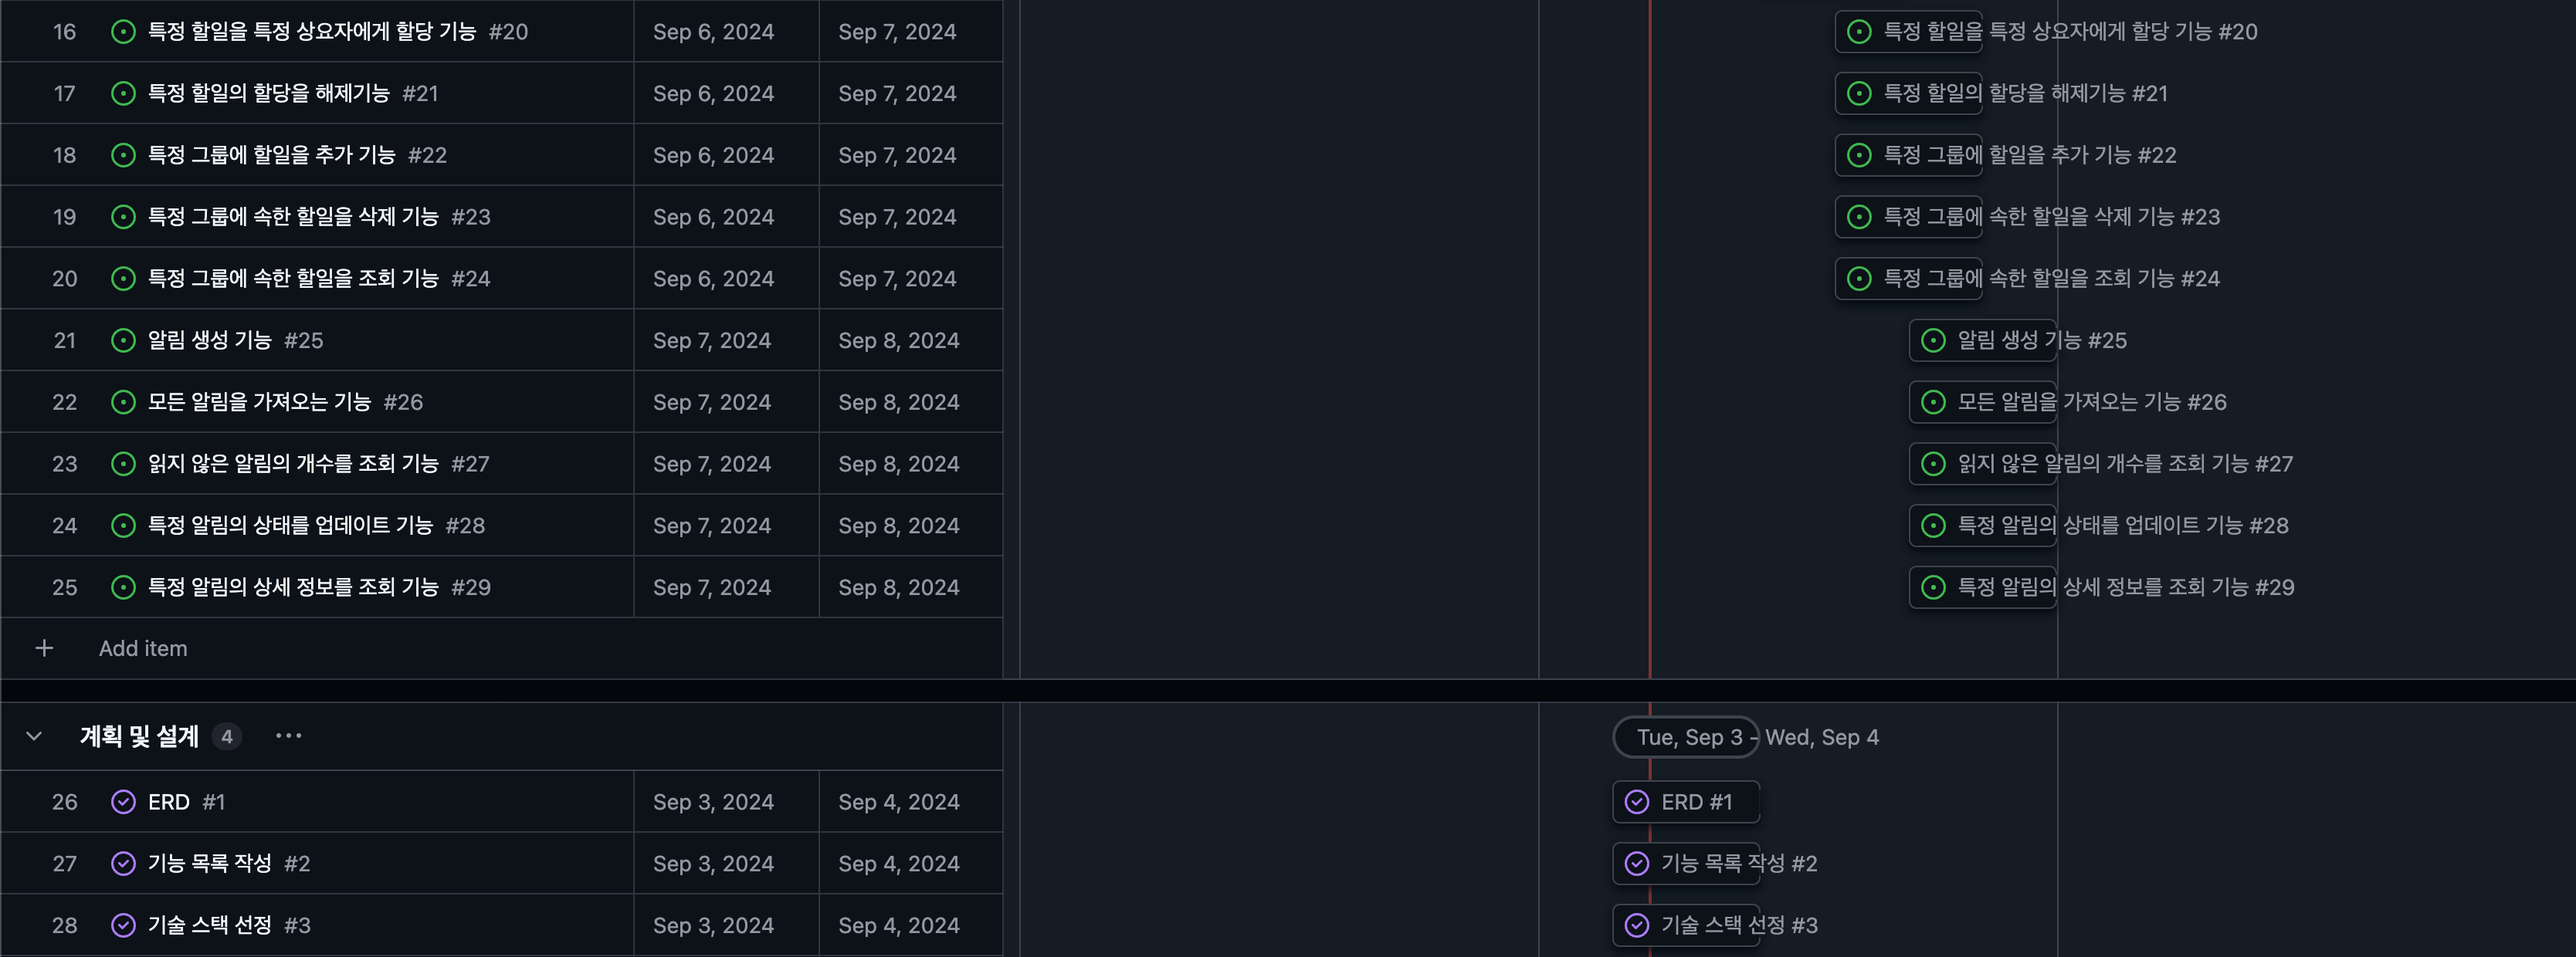
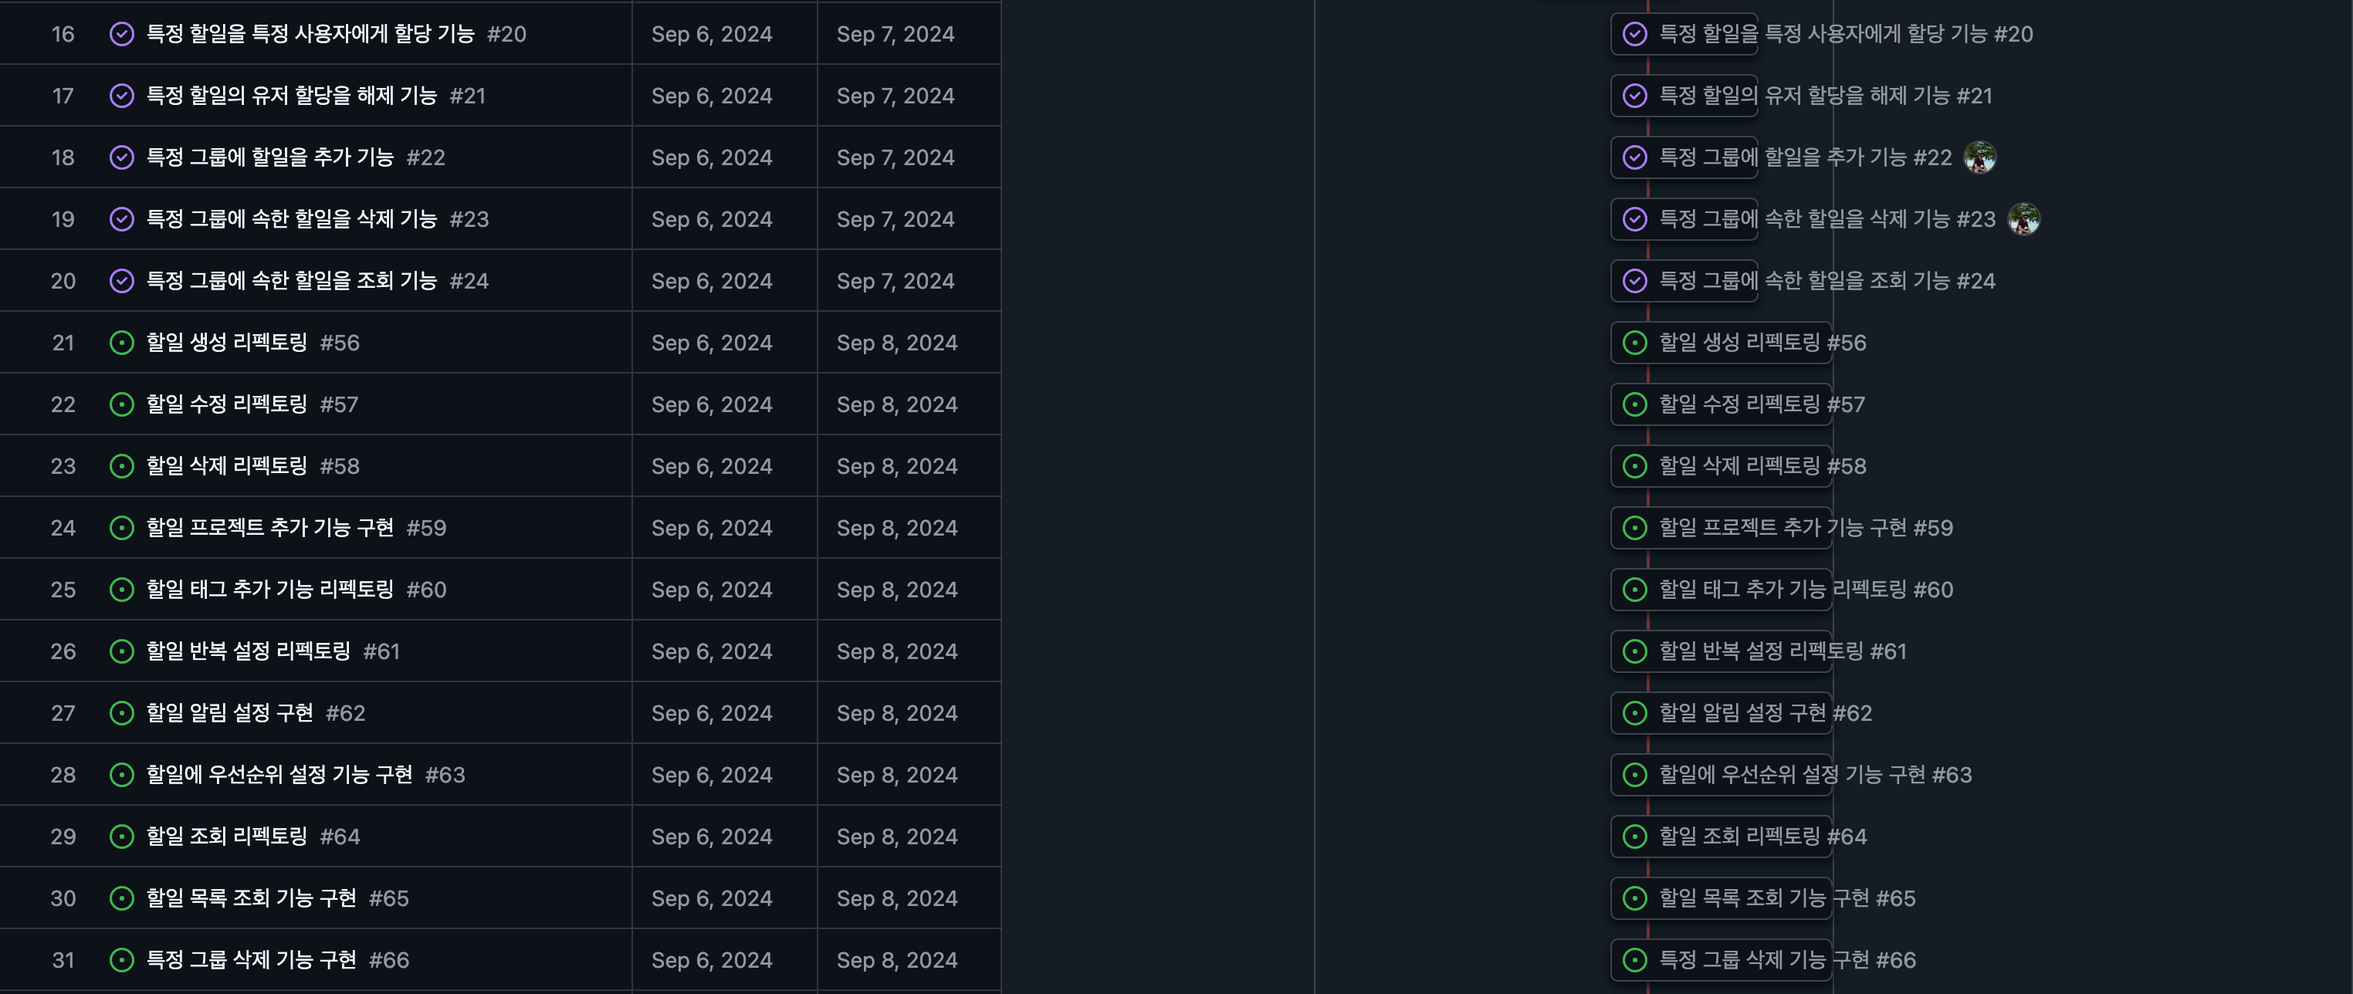
docs: 중간 적검

diff --git a/README.md b/README.md
@@ -4,29 +4,71 @@
 
 ### 유저
 
-- 유저 생성: 새로운 사용자를 등록합니다.
-- 유저 로그인: 로그인 시 AccessToken 및 RefreshToken을 발급받습니다.
-- 유저가 할당된 할일 조회: 유저에게 할당된 할일을 조회합니다.
-- 유저가 생성한 할일 조회: 유저가 생성한 할일을 조회합니다.
+- [x]  **유저 생성**: 새로운 사용자를 등록할 수 있습니다.
+- [x]  **유저 로그인**: 로그인 시 AccessToken 및 RefreshToken을 발급받을 수 있습니다.
 
-### 할일
+---
 
-- 할일 생성: 새로운 할일을 생성합니다.
-- 할일 수정: 기존 할일의 정보를 수정합니다.
-- 할일 삭제: 특정 할일을 삭제합니다.
-- 할일 조회: 특정 할일의 상세 정보를 조회합니다.
-- 할일 목록 조회:
-    - 모든 할일 목록을 조회합니다.
-    - 검색 및 필터링 한 할일을 조회합니다.
-- 할일 상태 변경: 할일의 상태를 업데이트합니다. (예: 미완료, 진행 중, 완료)
-- 할일 분류 및 그룹화: 할일을 태그나 프로젝트 별로 분류하고 그룹화합니다.
+### 할일 (개인)
 
-### 알림
+- [ ]  **할일 생성**: 새로운 할일을 생성할 수 있습니다.
+- [ ]  **할일 수정**: 기존 할일의 정보를 수정할 수 있습니다.
+- [ ]  **할일 삭제**: 특정 할일을 삭제할 수 있습니다.
+- [ ]  **할일 조회**: 특정 할일의 상세 정보를 조회할 수 있습니다.
+- [ ]  **할일 목록 조회**:
+    - [ ]  **태그 별**: 태그를 기준으로 할일 목록을 조회할 수 있습니다.
+    - [ ]  **프로젝트 별**: 프로젝트를 기준으로 할일 목록을 조회할 수 있습니다.
+    - [ ]  **전체**: 모든 할일 목록을 조회할 수 있습니다.
+- [ ]  **할일 상태 변경**: 할일의 상태를 업데이트할 수 있습니다. (예: 미완료, 진행 중, 완료)
+- [ ]  **태그 추가**: 할일에 태그를 추가할 수 있습니다.
+- [ ]  **태그 삭제**: 할일에서 태그를 삭제할 수 있습니다.
+- [ ]  **프로젝트 업데이트**: 할일에 프로젝트를 업데이트할 수 있습니다.
+- [ ]  **할일 알림 설정**: 할일 기한 전 알림을 설정할 수 있습니다.
+- [ ]  **할일 반복 설정**: 주기적으로 반복되는 할일을 설정할 수 있습니다.
 
-- 할일 기한 전 알림 설정: 할일 기한이 다가오면 알림을 설정합니다.
-- 할일 상태 변경 시 알림: 할일의 완료 또는 상태 변경 시 알림을 보냅니다.
-- 할당된 알림: 할일이 할당된 경우 해당 할일에 대해 알림을 설정합니다.
-- 반복 할일 설정: 반복적으로 발생하는 할일에 대해 정기적인 알림을 설정합니다.
+---
+
+### 그룹
+
+- [x]  **새로운 그룹 생성**: 새로운 그룹을 생성할 수 있습니다.
+- [x]  **기존 그룹 정보 수정**: 기존 그룹의 정보를 수정할 수 있습니다.
+- [ ]  **특정 그룹 삭제**: 특정 그룹을 삭제할 수 있습니다.
+- [ ]  **특정 그룹 상세 정보 조회**: 특정 그룹의 상세 정보를 조회할 수 있습니다.
+- [ ]  **특정 그룹에 포함된 유저 조회**: 특정 그룹에 포함된 유저를 가져올 수 있습니다.
+- [ ]  **특정 그룹에 유저 추가**: 특정 그룹에 유저를 추가할 수 있습니다.
+- [ ]  **특정 그룹에서 유저 삭제**: 특정 그룹에서 유저를 삭제할 수 있습니다.
+- [ ]  **특정 그룹에 할일 추가**: 특정 그룹에 할일을 추가할 수 있습니다.
+- [ ]  **특정 그룹에서 할일 삭제**: 특정 그룹에서 할일을 삭제할 수 있습니다.
+    - [ ]  **삭제 알림**: 할당된 유저에게 삭제 알림을 보낼 수 있습니다.
+- [ ]  **특정 그룹의 할일 수정**: 특정 그룹의 할일을 수정할 수 있습니다.
+    - [ ]  **수정 알림**: 할당된 유저에게 수정 사항을 알림으로 보낼 수 있습니다.
+- [ ]  **특정 그룹의 할일 상태 변경**: 특정 그룹의 할일 상태를 변경할 수 있습니다.
+    - [ ]  **상태 변경 알림**: 할당된 유저에게 상태 변경 알림을 보낼 수 있습니다.
+- [ ]  **특정 그룹의 할일 상세 정보 조회**: 특정 그룹의 할일 상세 정보를 조회할 수 있습니다.
+- [ ]  **특정 그룹 할일에 태그 추가**: 할일에 태그를 추가할 수 있습니다.
+- [ ]  **특정 그룹 할일에서 태그 삭제**: 할일에서 태그를 삭제할 수 있습니다.
+- [ ]  **특정 그룹 할일에 프로젝트 업데이트**: 할일의 프로젝트를 업데이트할 수 있습니다.
+- [ ]  **특정 그룹 할일 목록 조회**:
+    - [ ]  **태그 별**: 태그를 기준으로 할일 목록을 조회할 수 있습니다.
+    - [ ]  **프로젝트 별**: 프로젝트를 기준으로 할일 목록을 조회할 수 있습니다.
+    - [ ]  **전체**: 모든 할일 목록을 조회할 수 있습니다.
+- [ ]  **특정 그룹 할일에 마감 기한 설정**: 마감 기한을 설정할 수 있습니다.
+    - [ ]  **마감 기한 알림**: 마감 기한이 가까워지면 할당된 유저에게 알림을 보낼 수 있습니다.
+    - [ ]  **마감 기한 변경 알림**: 마감 기한이 변경되면 할당된 유저에게 알림을 보낼 수 있습니다.
+- [ ]  **특정 그룹 할일에 우선순위 설정**: 할일의 우선순위를 설정할 수 있습니다.
+    - [ ]  **우선순위 설정 알림**: 할당된 유저에게 우선순위 알림을 보낼 수 있습니다.
+- [ ]  **그룹 할일 진행률 추적**: 할일의 진행 상태를 비율로 추적할 수 있습니다.
+- [ ]  **특정 그룹 할일을 유저에게 할당**: 특정 그룹의 할일을 유저에게 할당할 수 있습니다.
+    - [ ]  **할당 알림**: 할일이 할당된 유저에게 알림을 보낼 수 있습니다.
+- [ ]  **특정 그룹 할일에서 유저 할당 해제**: 특정 그룹의 할일에서 유저 할당을 해제할 수 있습니다.
+    - [ ]  **할당 해제 알림**: 할당이 해제된 유저에게 알림을 보낼 수 있습니다.
+
+---
+
+### 유저의 그룹 정보
+
+- [ ]  **유저가 속한 모든 그룹 정보 조회**: 유저가 속한 모든 그룹 정보를 가져올 수 있습니다.
+    - [ ]  **그룹에 포함된 할일도 함께 조회**: 그룹에 포함된 할일도 함께 가져올 수 있습니다.
 
 ## 기술 스택
 
@@ -83,57 +125,78 @@
 
 ### 유저 API
 
-| Endpoint                     | HTTP Method | 설명                                  |
-|------------------------------|-------------|-------------------------------------|
-| `/users`                     | POST        | 새로운 사용자를 등록합니다.                     |
-| `/users/login`               | POST        | AccessToken 및 RefreshToken을 발급받습니다. |
-| `/users/{id}/assigend-todos` | GET         | 유저에게 할당된 할일을 조회합니다.                 |
-| `/users/{id}/todos`          | GET         | 유저가 생성한 할일을 조회합니다.                  |
+| Endpoint       | HTTP Method | 설명                                  | 상태 |
+|----------------|-------------|:------------------------------------|----|
+| `/users`       | POST        | 새로운 사용자를 등록합니다.                     | ✅  |
+| `/users/login` | POST        | AccessToken 및 RefreshToken을 발급받습니다. | ✅  |
 
-### 할일 API
+### 할일 API (개인인증 필요)
 
-| Endpoint                 | HTTP Method | 설명                      |
-|--------------------------|-------------|-------------------------|
-| `/todos`                 | POST        | 새로운 할일을 생성합니다.          |
-| `/todos/{id}`            | PUT         | 기존 할일의 정보를 수정합니다.       |
-| `/todos/{id}`            | DELETE	     | 	특정 할일을 삭제합니다.          |
-| `/todos/{id}`            | GET         | 특정 할일의 상세 정보를 조회합니다.    |
-| `/todos/{id}/status`     | PUT         | 특정 할일의 상태를 업데이트합니다.     |
-| `/todos/{id}/tags`       | PUT         | 특정 할일의 태그를 업데이트합니다.     |
-| `/todos/{id}/recurrence` | POST        | 특정 할일에 대해 반복 설정을 추가합니다. |
-| `/todos/{id}/recurrence` | PUT         | 특정 할일의 반복 설정을 수정합니다.    |
-| `/todos/{id}/recurrence` | DELETE      | 특정 할일의 반복 설정을 삭제합니다.    |
-| `/todos/{id}/recurrence` | GET         | 특정 할일의 반복 설정을 조회합니다.    |
-| 	`/todos/{id}/assign`    | POST        | 특정 할일을 특정 사용자에게 할당합니다.  |
-| `/todos/{id}/assign`     | DELETE      | 특정 할일의 할당을 해제합니다.       |
+| Endpoint                     | HTTP Method | 설명                      | 상태 |
+|------------------------------|-------------|-------------------------|----|
+| `/todos`                     | POST        | 새로운 할일을 생성합니다.          |    |
+| `/todos/{id}`                | PUT         | 기존 할일의 정보를 수정합니다.       |    |
+| `/todos/{id}`                | DELETE      | 특정 할일을 삭제합니다.           |    |
+| `/todos/{id}`                | GET         | 특정 할일의 상세 정보를 조회합니다.    |    |
+| `/todos`                     | GET         | 전체 할일 목록을 조회합니다.        |    |
+| `/todos?tag={tagName}`       | GET         | 태그 별로 할일 목록을 조회합니다.     |    |
+| `/todos?project={projectId}` | GET         | 프로젝트 별로 할일 목록을 조회합니다.   |    |
+| `/todos/{id}/status`         | PUT         | 특정 할일의 상태를 업데이트합니다.     |    |
+| `/todos/{id}/tags`           | POST        | 특정 할일에 태그를 추가합니다.       |    |
+| `/todos/{id}/tags`           | DELETE      | 특정 할일에 태그를 삭제합니다.       |    |
+| `/todos/{id}/projects`       | PUT         | 특정 할일에 프로젝트 업데이트 합니다.   |    |
+| `/todos/{id}/recurrence`     | POST        | 특정 할일에 대해 반복 설정을 추가합니다. |    |
+| `/todos/{id}/recurrence`     | PUT         | 특정 할일의 반복 설정을 수정합니다.    |    |
+| `/todos/{id}/recurrence`     | DELETE      | 특정 할일의 반복 설정을 삭제합니다.    |    |
+| `/todos/{id}/recurrence`     | GET         | 특정 할일의 반복 설정을 조회합니다.    |    |
+| `/todos/{id}/assign`         | POST        | 특정 할일을 특정 사용자에게 할당합니다.  |    |
+| `/todos/{id}/assign`         | DELETE      | 특정 할일의 할당을 해제합니다.       |    |
+| `/todos/{id}/notifications`  | POST        | 특정 할일의 기한 전 알림을 설정합니다.  |    |
+| `/todos/{id}/notifications`  | PUT         | 특정 할일의 알림을 수정합니다.       |    |
+| `/todos/{id}/notifications`  | DELETE      | 특정 할일의 알림을 삭제합니다.       |    |
+| `/todos/{id}/notifications`  | GET         | 특정 할일의 알림을 조회합니다.       |    |
 
-### 그룹 API
+### 그룹 API (그룹인증 필요)
 
-| Endpoint             | HTTP Method | 설명                   |
-|----------------------|-------------|----------------------|
-| `/groups`            | POST        | 새로운 그룹을 생성합니다.       |
-| `/groups/{id}`       | PUT         | 기존 그룹의 정보를 수정합니다.    |
-| `/groups/{id}`       | DELETE      | 특정 그룹을 삭제합니다.        |
-| `/groups/{id}`       | GET         | 특정 그룹의 상세 정보를 조회합니다. |
-| `/groups/`           | GET         | 모든 그룹을 조회합니다.        |
-| `/groups/{id}/todos` | POST        | 특정 그룹에 할일을 추가합니다.    |
-| `/groups/{id}/todos` | DELETE      | 특정 그룹에 속한 할일을 삭제합니다. |
-| `/groups/{id}/todos` | GET         | 특정 그룹에 속한 할일을 조회합니다. |
+| Endpoint                                 | HTTP Method | 설명                               | 상태 |
+|------------------------------------------|-------------|----------------------------------|----|
+| `/groups`                                | POST        | 새로운 그룹을 생성할 수 있습니다.              |    |
+| `/groups/{id}`                           | PUT         | 기존 그룹의 정보를 수정할 수 있습니다.           |    |
+| `/groups/{id}`                           | DELETE      | 특정 그룹을 삭제할 수 있습니다.               |    |
+| `/groups/{id}`                           | GET         | 특정 그룹의 상세 정보를 조회할 수 있습니다.        |    |
+| `/groups/{id}/users`                     | GET         | 특정 그룹에 포함된 유저를 가져올 수 있습니다.       |    |
+| `/groups/{id}/users`                     | POST        | 특정 그룹에 유저를 추가할 수 있습니다.           |    |
+| `/groups/{id}/users/{userId}`            | DELETE      | 특정 그룹에서 유저를 삭제할 수 있습니다.          |    |
+| `/groups/{id}/todos`                     | POST        | 특정 그룹에 할일을 추가할 수 있습니다.           |    |
+| `/groups/{id}/todos/{todoId}`            | DELETE      | 특정 그룹에서 할일을 삭제할 수 있습니다.          |    |
+| `/groups/{id}/todos/{todoId}`            | PUT         | 특정 그룹의 할일을 수정할 수 있습니다.           |    |
+| `/groups/{id}/todos/{todoId}/status`     | PUT         | 특정 그룹의 할일 상태를 변경할 수 있습니다.        |    |
+| `/groups/{id}/todos/{todoId}`            | GET         | 특정 그룹의 할일 상세 정보를 조회할 수 있습니다.     |    |
+| `/groups/{id}/todos/{todoId}/tags`       | POST        | 특정 그룹의 할일에 태그를 추가할 수 있습니다.       |    |
+| `/groups/{id}/todos/{todoId}/tags`       | DELETE      | 특정 그룹의 할일에서 태그를 삭제할 수 있습니다.      |    |
+| `/groups/{id}/todos/{todoId}/projects`   | PUT         | 특정 그룹의 할일을 프로젝트 별로 분류할 수 있습니다.   |    |
+| `/groups/{id}/todos?tag={tagName}`       | GET         | 특정 그룹의 할일을 태그 별로 조회할 수 있습니다.     |    |
+| `/groups/{id}/todos?project={projectId}` | GET         | 특정 그룹의 할일을 프로젝트 별로 조회할 수 있습니다.   |    |
+| `/groups/{id}/todos`                     | GET         | 특정 그룹의 모든 할일 목록을 조회할 수 있습니다.     |    |
+| `/groups/{id}/todos/{todoId}/due-date`   | PUT         | 특정 그룹의 할일에 마감 기한을 설정할 수 있습니다.    |    |
+| `/groups/{id}/todos/{todoId}/priority`   | PUT         | 특정 그룹의 할일에 우선순위를 설정할 수 있습니다.     |    |
+| `/groups/{id}/todos/progress`            | GET         | 특정 그룹의 할일 진행 상태를 비율로 추적할 수 있습니다. |    |
+| `/groups/{id}/todos/{todoId}/assign`     | POST        | 특정 그룹의 할일을 유저에게 할당할 수 있습니다.      |    |
+| `/groups/{id}/todos/{todoId}/assign`     | DELETE      | 특정 그룹의 할일에서 유저 할당을 해제할 수 있습니다.   |    |
 
-### 알림 API
+### 유저의 그룹 정보 API (그룹인증 필요)
 
-| Endpoint                | HTTP Method | 설명                   |
-|-------------------------|-------------|----------------------|
-| `/notifications/`       | GET         | 모든 알림을 가져옵니다.        |
-| `/notifications/counts` | GET         | 읽지 않은 알림의 개수를 조회합니다. |
-| `/notifications/{id}`   | PUT         | 특정 알림의 상태를 업데이트합니다.  |
-| `/notifications/{id}`   | GET         | 특정 알림의 상세 정보를 조회합니다. |
+| Endpoint                 | HTTP Method | 설명                           | 상태 |
+|--------------------------|-------------|------------------------------|----|
+| `/users/{userId}/groups` | GET         | 유저가 속한 모든 그룹 정보를 가져올 수 있습니다. |    |
+| `/users/{userId}/groups` | GET         | 그룹에 포함된 할일도 함께 가져올 수 있습니다.   |    |
 
 ## WBS
 
 ![WBS1](assets/images/WBS1.png)
 ![WBS2](assets/images/WBS2.png)
 ![WBS3](assets/images/WBS3.png)
+![WBS4](assets/images/WBS4.png)
 > [!TIP]
 > [클릭하면 WBS로 넘어갑니다.](https://github.com/users/AlbertImKr/projects/7/views/1)
 
